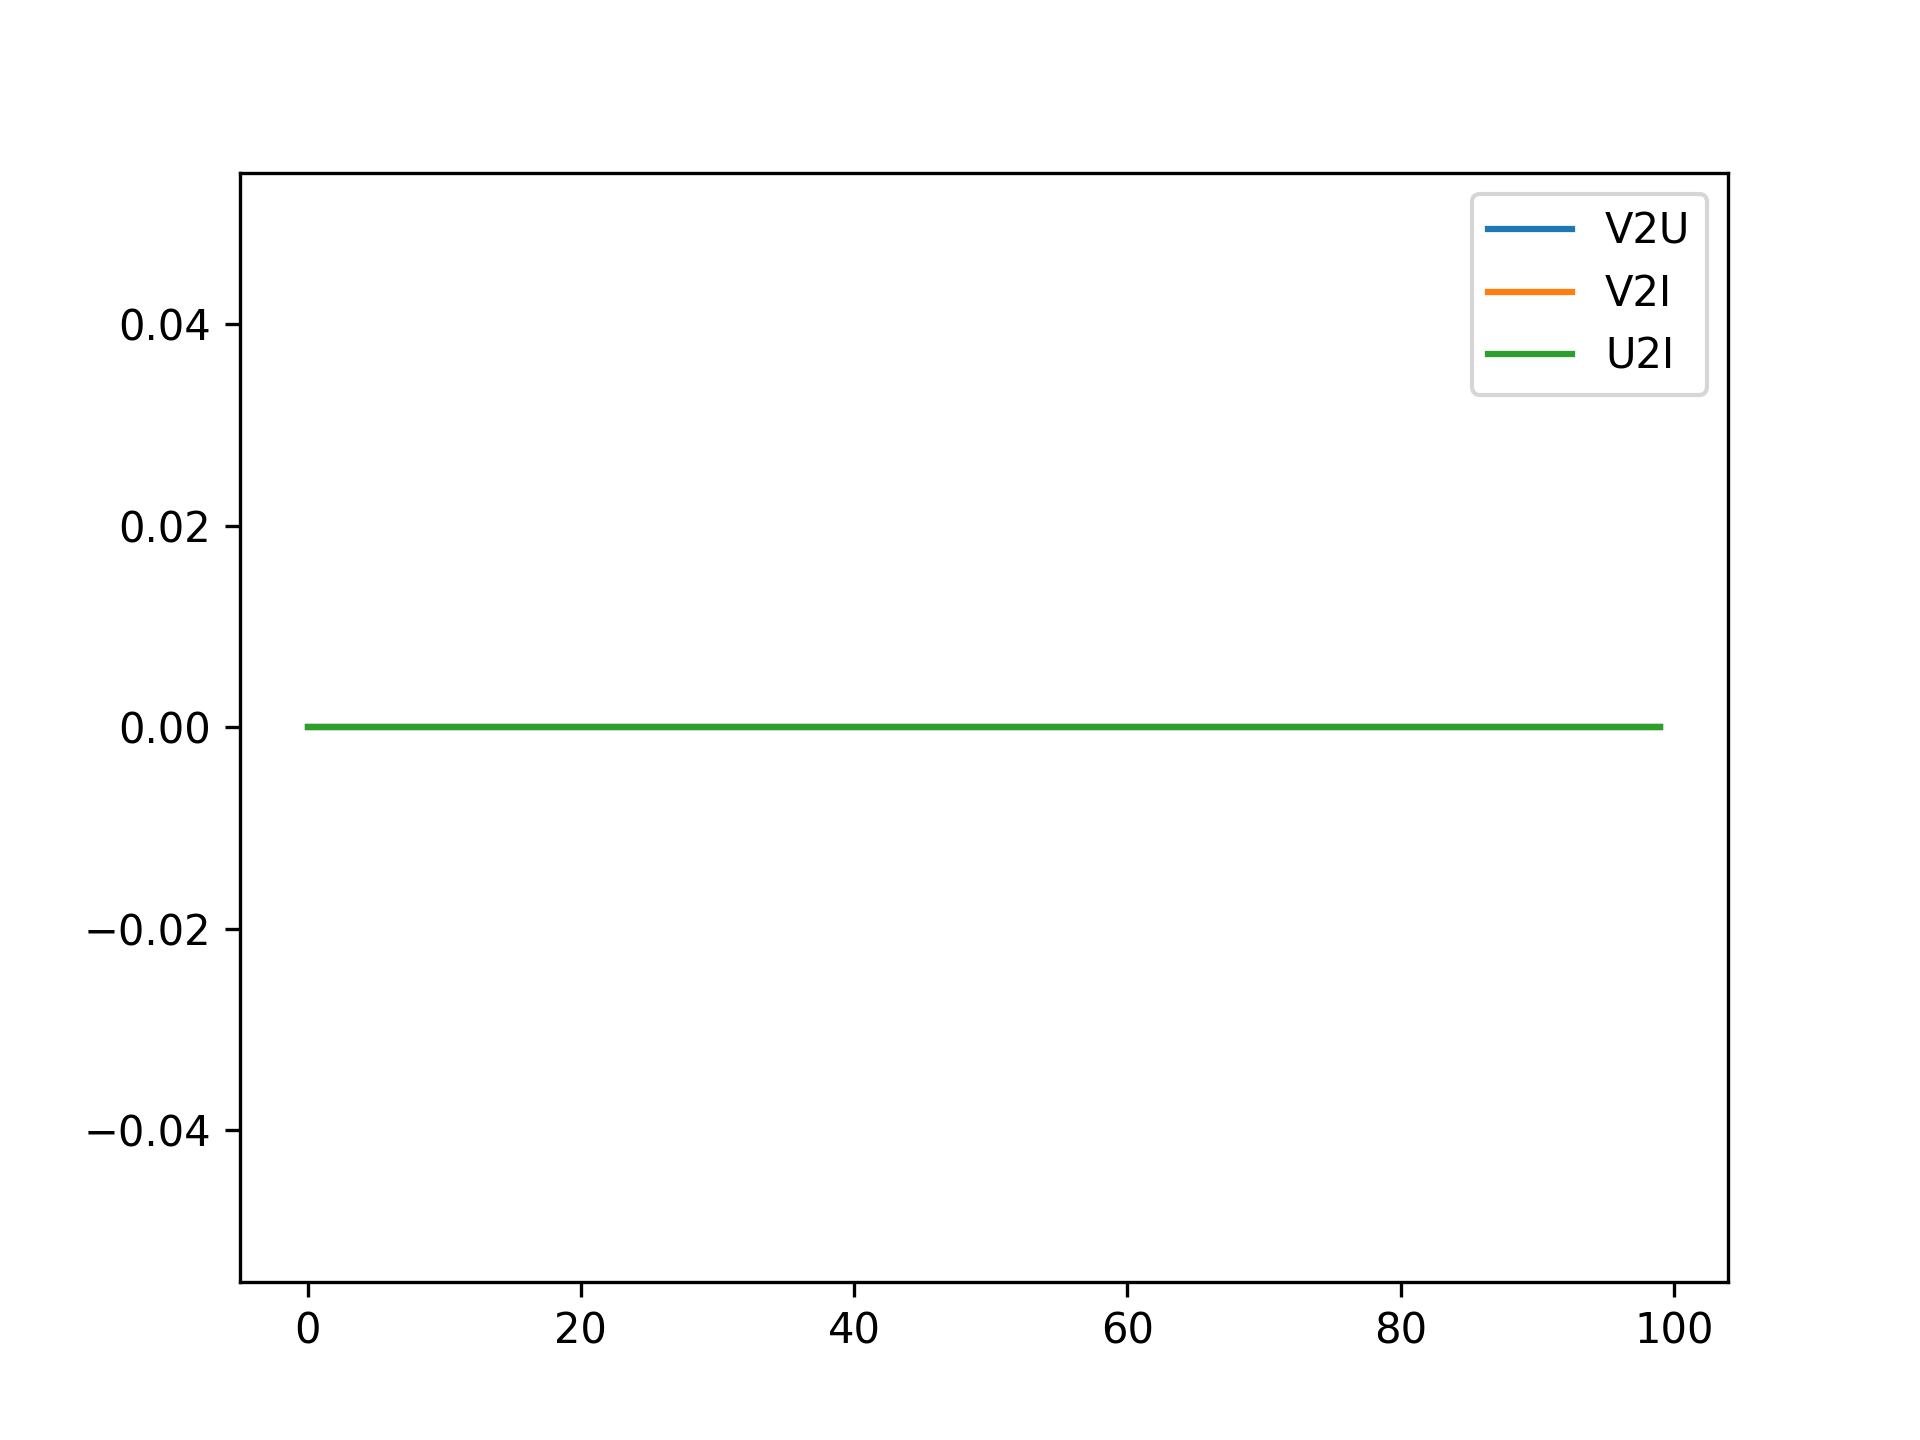
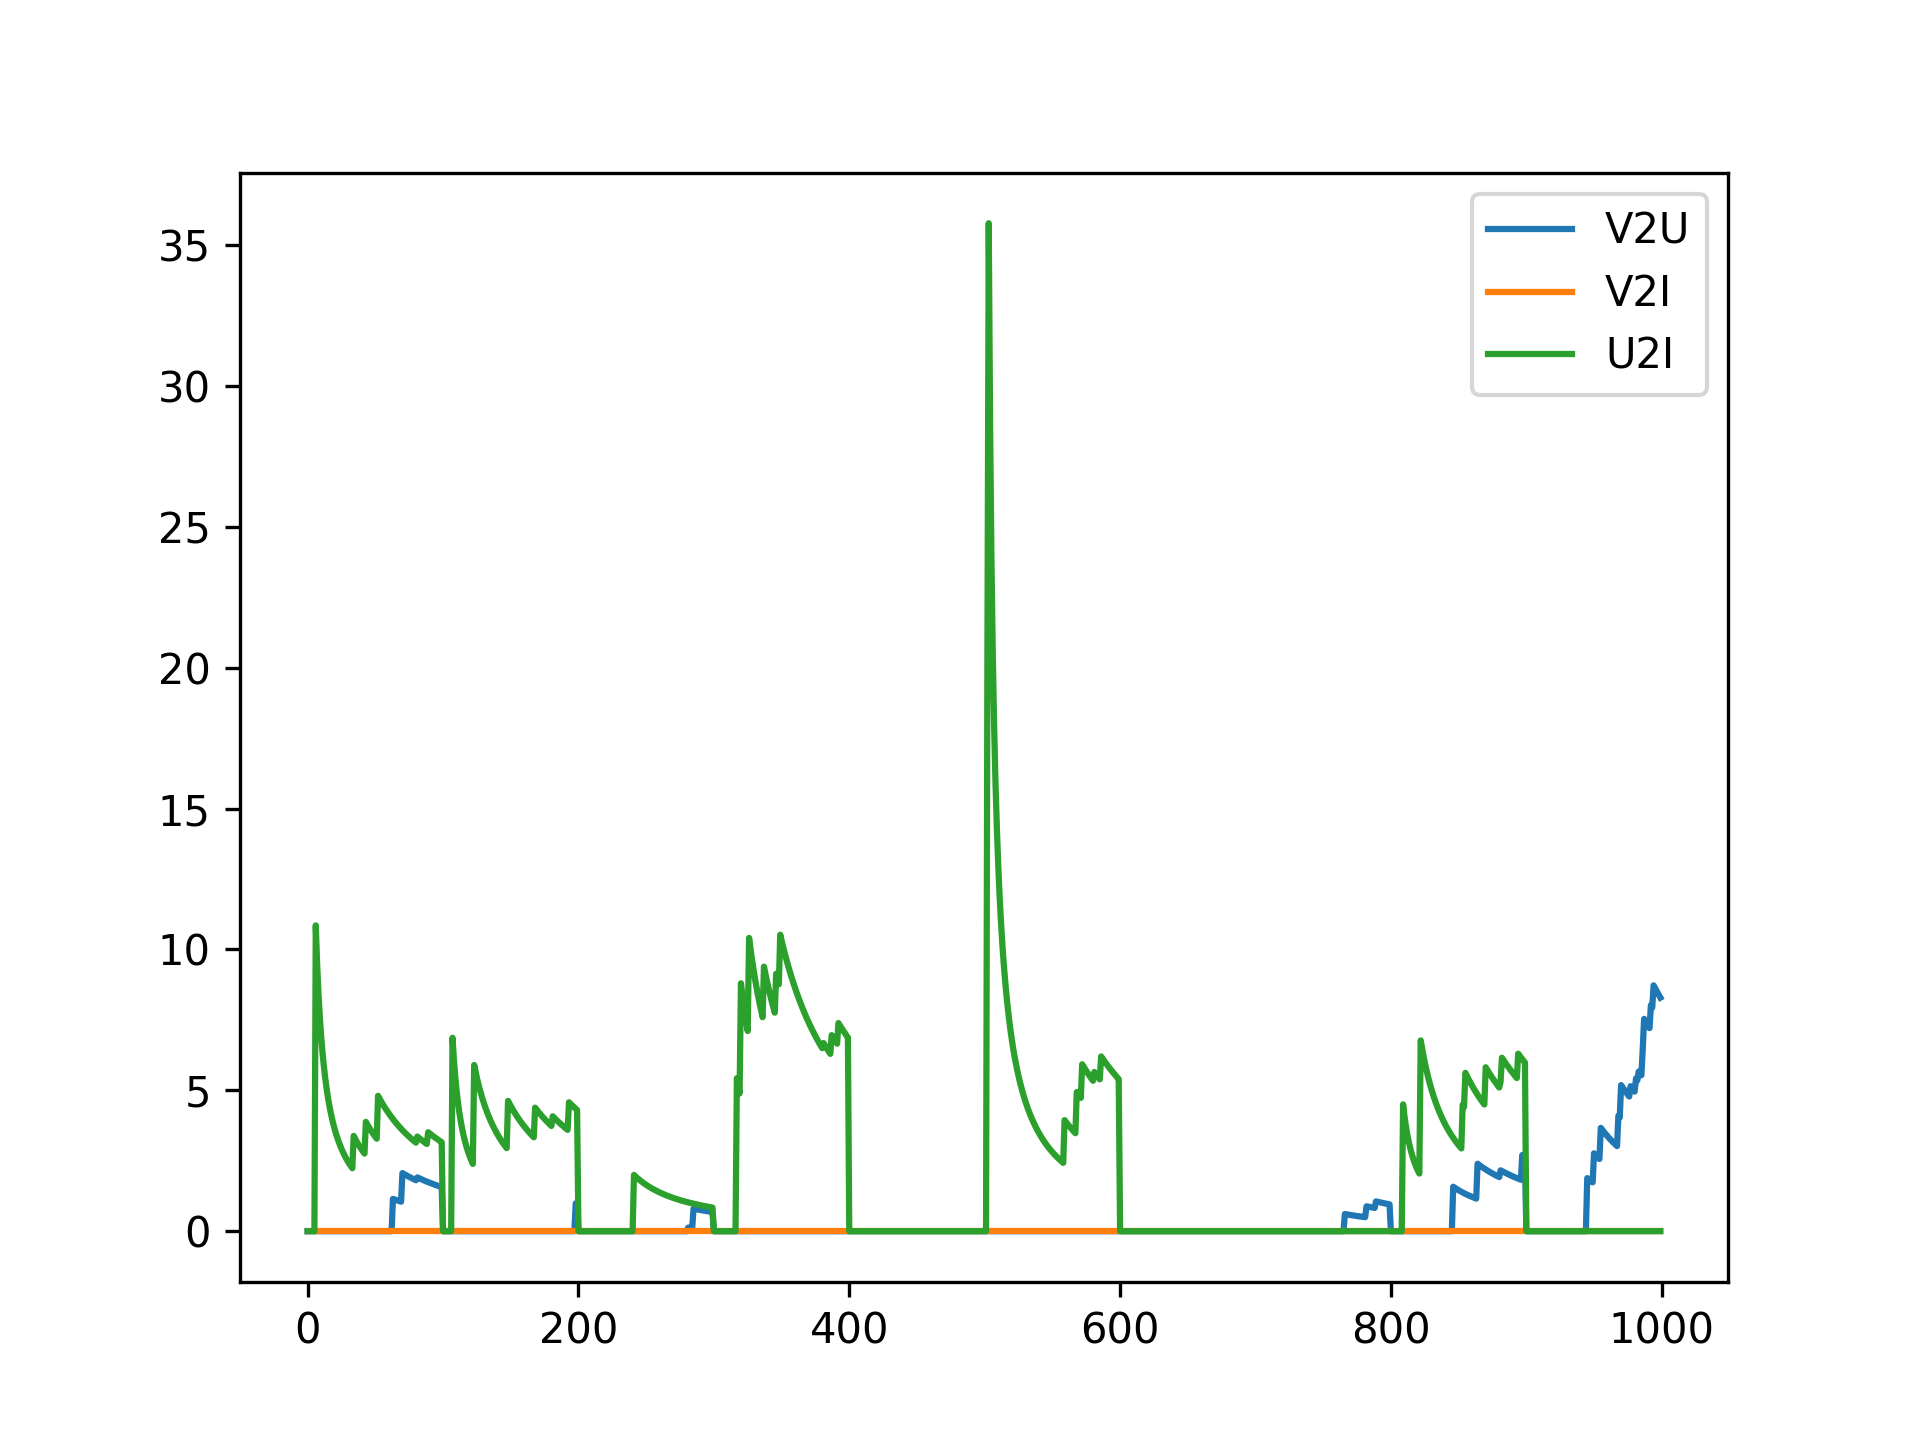
完成基础环境构建

diff --git a/airfogsim/manager/task_manager.py b/airfogsim/manager/task_manager.py
@@ -932,6 +932,9 @@ class TaskManager:
         """
         done_task_id_for_node = [task_info.getTaskId() for task_info in self._done_tasks.get(task_node_id, [])]
         failed_task_id_for_node = [task_info.getTaskId() for task_info in self._out_of_ddl_tasks.get(task_node_id, [])]
+        # 需要先检查task_node_id 是否在字典中
+        if task_node_id not in self._task_dependencies:
+            self._task_dependencies[task_node_id]=nx.DiGraph()
         task_dag = self._task_dependencies[task_node_id] # nx.DiGraph
         parents = []
         if task_dag is not None and task_id in task_dag:

diff --git a/airfogsim/airfogsim_algorithm.py b/airfogsim/airfogsim_algorithm.py
@@ -189,7 +189,7 @@ class BaseAlgorithmModule:
                 nearest_node_id = neighbor_infos[0]['id']
                 furthest_node_id = neighbor_infos[-1]['id']
                 flag = self.taskScheduler.setTaskOffloading(env, task_node_id, task_id, nearest_node_id)
-                assert flag
+                # assert flag
 
     def scheduleCommunication(self, env: AirFogSimEnv):
         """The communication scheduling logic. Should be implemented by the subclass. Default is random.

diff --git a/README.md b/README.md
@@ -14,13 +14,19 @@ docker build -t airfogsim .
 
 3. 运行容器
 ```bash
-docker run -it --rm airfogsim
+docker run -it --rm \
+    -e DISPLAY=:1 \
+    -v /tmp/.X11-unix:/tmp/.X11-unix \
+    airfogsim
 ```
 若需要让 Docker 里的代码和本机同步，可以选择本地挂载
 
 ```bash
-docker run -it --rm -v $(pwd):/app airfogsim
+docker run -it --rm \
+    -e DISPLAY=:1 \
+    -v /tmp/.X11-unix:/tmp/.X11-unix \
+    -v $(pwd):/app \
+    airfogsim
 ```
-
-
+- 在终端中输入``` echo $DISPLAY ``` 查看你的DISPLAY变量
 
